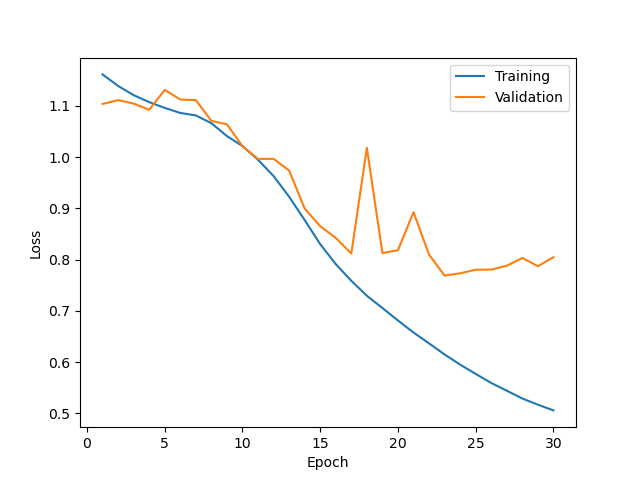
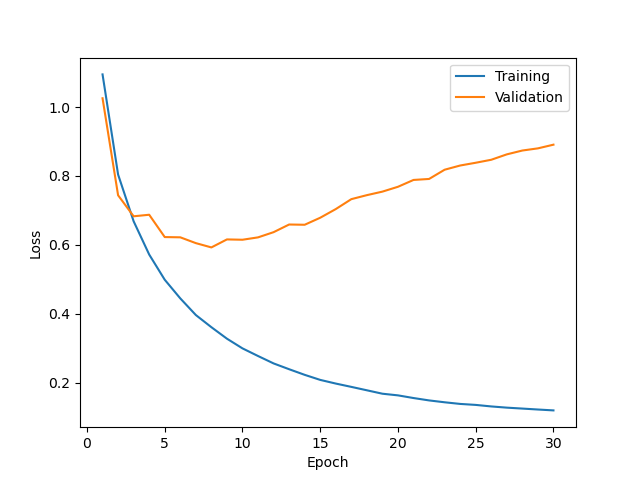
Train and test LSTM model
Attempts to solve issue #16 and #17.

diff --git a/training_testing.py b/training_testing.py
@@ -4,33 +4,23 @@ import time
 import matplotlib.pyplot as plt
 import numpy as np
 import torch.nn as nn
-import torch.nn.functional as F
 
 
 class Model(nn.Module):
-    def __init__(self, vocab_size, embed_dim, num_class, n_features, hidden_dim):
+    def __init__(self, vocab_size, embed_dim, num_class, hidden_dim):
         super(Model, self).__init__()
 
         self.embedding = nn.Embedding(vocab_size, embed_dim)
-        self.fc1 = nn.Linear(n_features * embed_dim, hidden_dim)  # TODO: Change number of out_features?
-        self.fc2 = nn.Linear(hidden_dim, num_class)
-        self.init_weights()
-
-    def init_weights(self):
-        initrange = 0.5
-        self.embedding.weight.data.uniform_(-initrange, initrange)
-        self.fc1.weight.data.uniform_(-initrange, initrange)
-        self.fc1.bias.data.zero_()
-        self.fc2.weight.data.uniform_(-initrange, initrange)
-        self.fc2.bias.data.zero_()
+        self.lstm = nn.LSTM(embed_dim, hidden_dim, batch_first=True)
+        self.fc = nn.Linear(hidden_dim, num_class)
 
     def forward(self, x):
         x = x.long()  # self.embedding(x) expects x of type LongTensor
 
         embedded = self.embedding(x)
-        out = embedded.view(embedded.size(0), -1)
-        out = F.relu(self.fc1(out))
-        out = self.fc2(out)
+        _, (last_hidden_state, _) = self.lstm(embedded)
+        linear_input = last_hidden_state[-1]
+        out = self.fc(linear_input)
 
         return out
 
@@ -114,8 +104,7 @@ def run(device, dataset_sizes, dataloaders, num_classes, semi_supervised, num_ep
     plt.ion()  # interactive mode
 
     if model is None:
-        model = Model(config.VOCAB_SIZE, config.EMBED_DIM, num_classes, config.N_FEATURES, config.
-                      HIDDEN_DIM).to(device)
+        model = Model(config.VOCAB_SIZE, config.EMBED_DIM, num_classes, config.HIDDEN_DIM).to(device)
 
     criterion = torch.nn.CrossEntropyLoss().to(device)
     optimizer = torch.optim.SGD(model.parameters(), lr=4.0)

diff --git a/main.py b/main.py
@@ -153,7 +153,7 @@ def main():
                                                  config.SEMI_SUPERVISED_PHASE_1_N_EPOCHS)
 
     # Change last layer from classifying 11th word to categories
-    model_semi_supervised.fc2 = nn.Linear(config.HIDDEN_DIM, config.SEMI_SUPERVISED_PHASE_2_NUM_CLASSES).to(device)
+    model_semi_supervised.fc = nn.Linear(config.HIDDEN_DIM, config.SEMI_SUPERVISED_PHASE_2_NUM_CLASSES).to(device)
 
     # Semi-supervised phase 2 training/testing
     training_testing.run(device, dataset_sizes, dataloaders, config.SUPERVISED_NUM_CLASSES,
